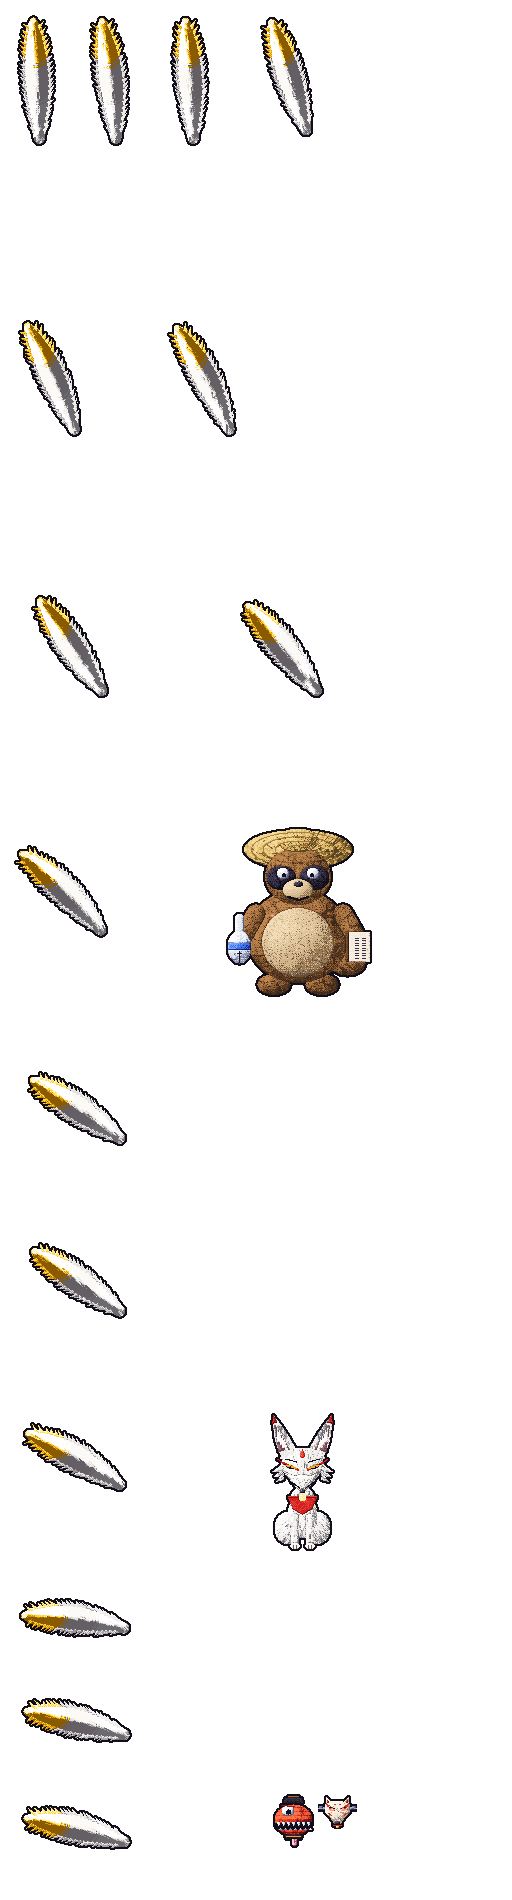
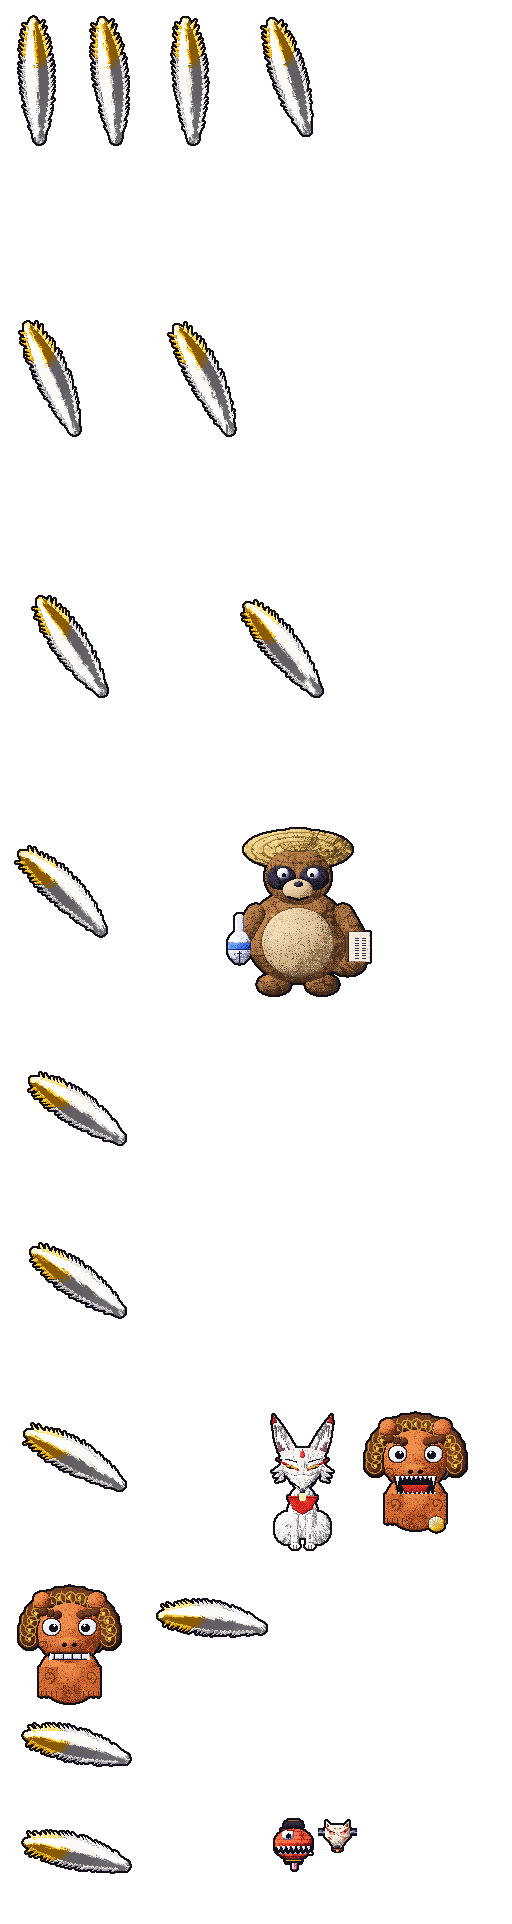
Okinawa enemies at 540 px: tobiuo, hārī, habu, Ryukyu glass, coral bunker, robo-manta, Tsuboya shisa
Claude-Session: https://claude.ai/code/session_01MRa5UEHufJmpkQZTQUStvb

diff --git a/src/game/enemies/okinawa.js b/src/game/enemies/okinawa.js
@@ -81,7 +81,7 @@ export const okinawa = {
       // the survivor takes in its twin's soul: some life back, bigger, both attacks at once
       const last = alive[0];
       last.hp = Math.min(last.maxHp, last.hp + SHISA.soul);
-      last.setScale(1.2);
+      last.setScale(1.2 * last.base);
       last.radius *= 1.2;
       Object.assign(g, { enraged: true, phase: 0, step: 0, swap: null });
       last.home = Math.round(VIEW.width / 2);
@@ -89,7 +89,7 @@ export const okinawa = {
       this.phaseBreak(g, last.x, last.y, 3, 'OSTATNI STRAŻNIK RYUKYU');
       s.fx.light(last.x, last.y, 1.4, false, 0xffd080);
     }
-    if (g.stage >= 3) alive[0].setScale(1.2);
+    if (g.stage >= 3) alive[0].setScale(1.2 * alive[0].base);
     // phase 2: the bond between them, blinking on before it hurts
     if (g.stage === 2 && alive.length === 2) {
       const [p, q] = alive;

diff --git a/src/game/enemyArt.js b/src/game/enemyArt.js
@@ -39,6 +39,11 @@ export const CITY_ANIMS = {
   tanuki: [four('tanuki'), 4],
   tanuki_leaf: [four('tanuki_leaf'), 4],
   ...Object.fromEntries(['red', 'blue', 'green'].map((c) => [`carrier_${c}`, [four(`carrier_${c}`), 10]])),
+  // Okinawa
+  tobiuo: [four('tobiuo'), 10], hari: [four('hari'), 6], habu: [four('habu'), 7],
+  manta: [[0, 1, 2, 3, 4, 5].map((i) => `manta_${i}`), 7],
+  shisa_a: [four('shisa_a'), 4], shisa_un: [four('shisa_un'), 4],
+  ...Object.fromEntries(['red', 'blue', 'green'].map((c) => [`glass_${c}`, [four(`glass_${c}`), 10]])),
 };
 
 /** Kyūbi's tails: how many swaying frames each one has in the atlas it comes from. */
